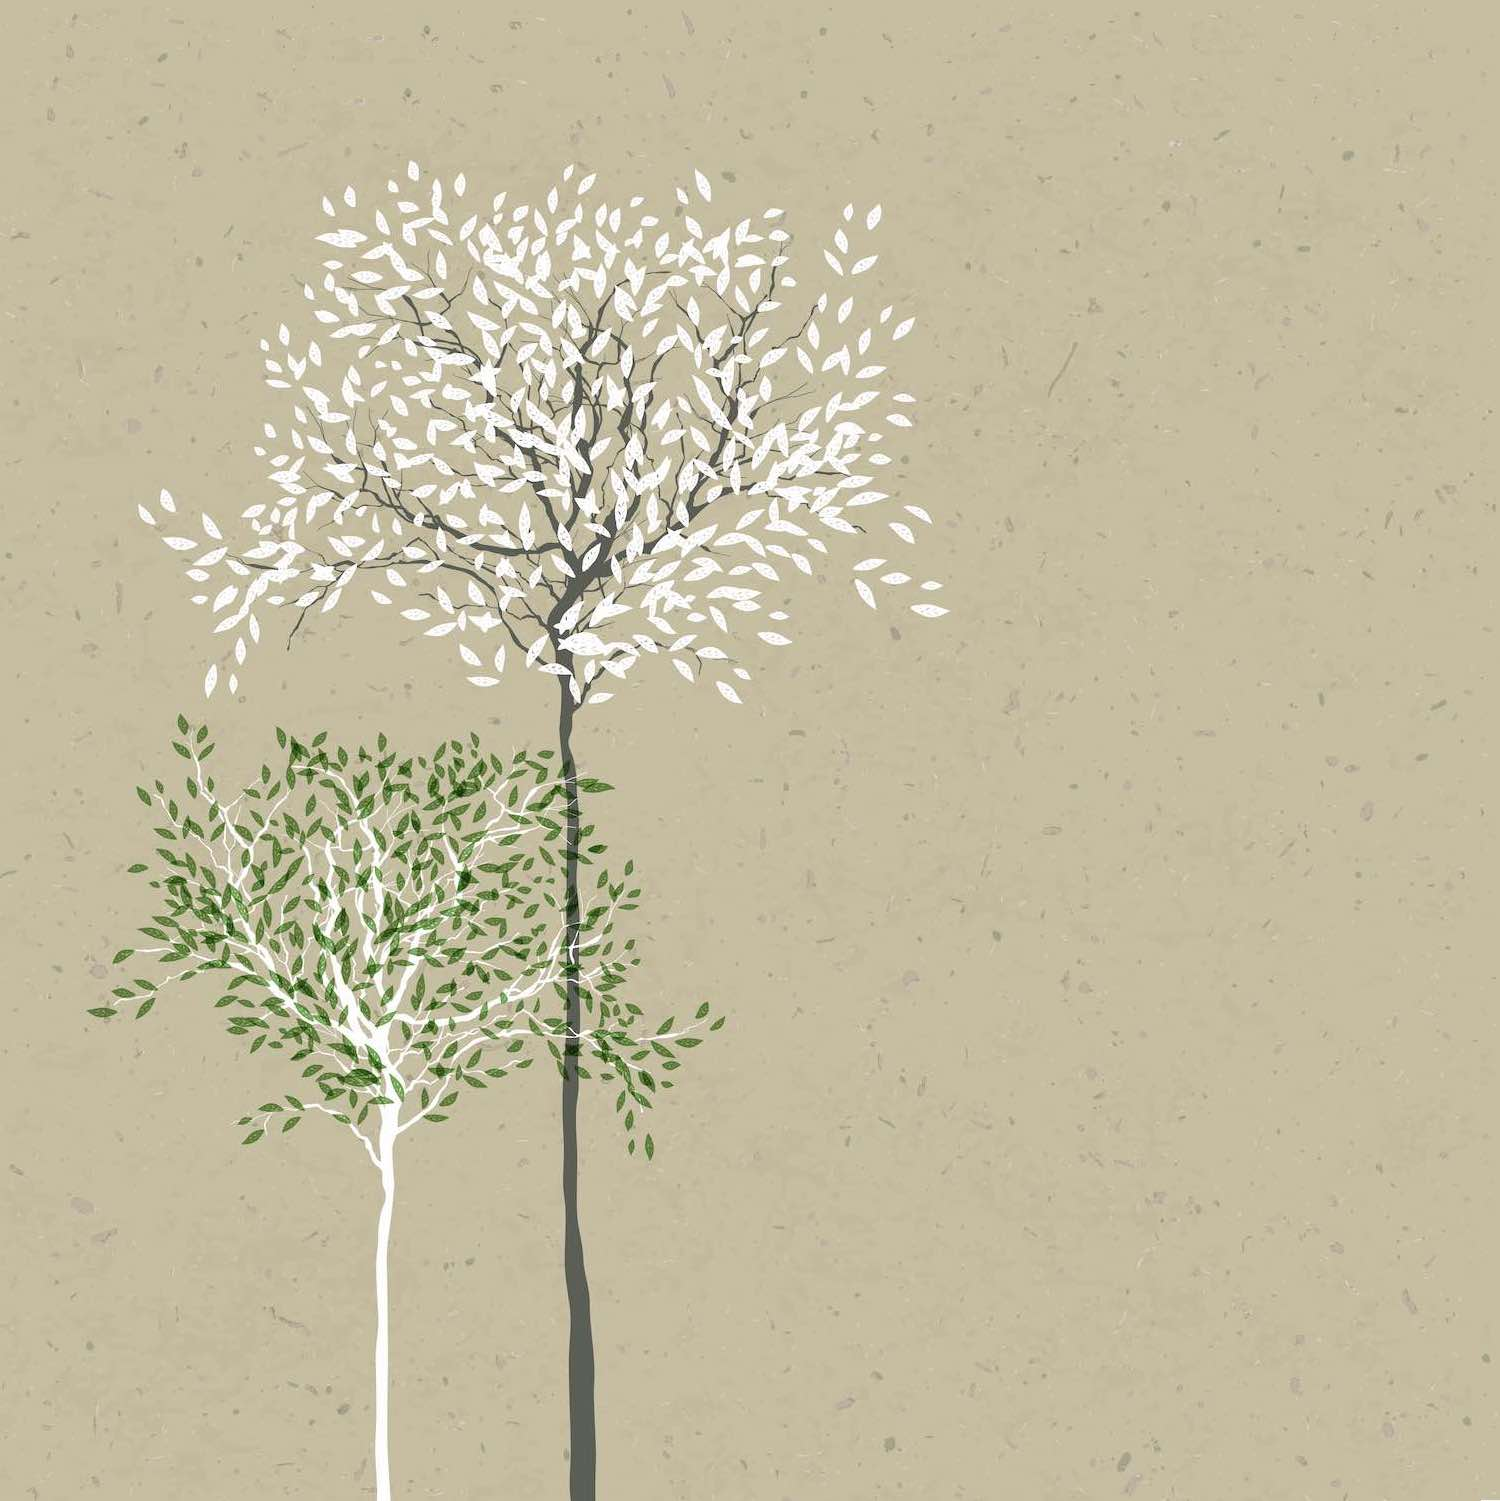
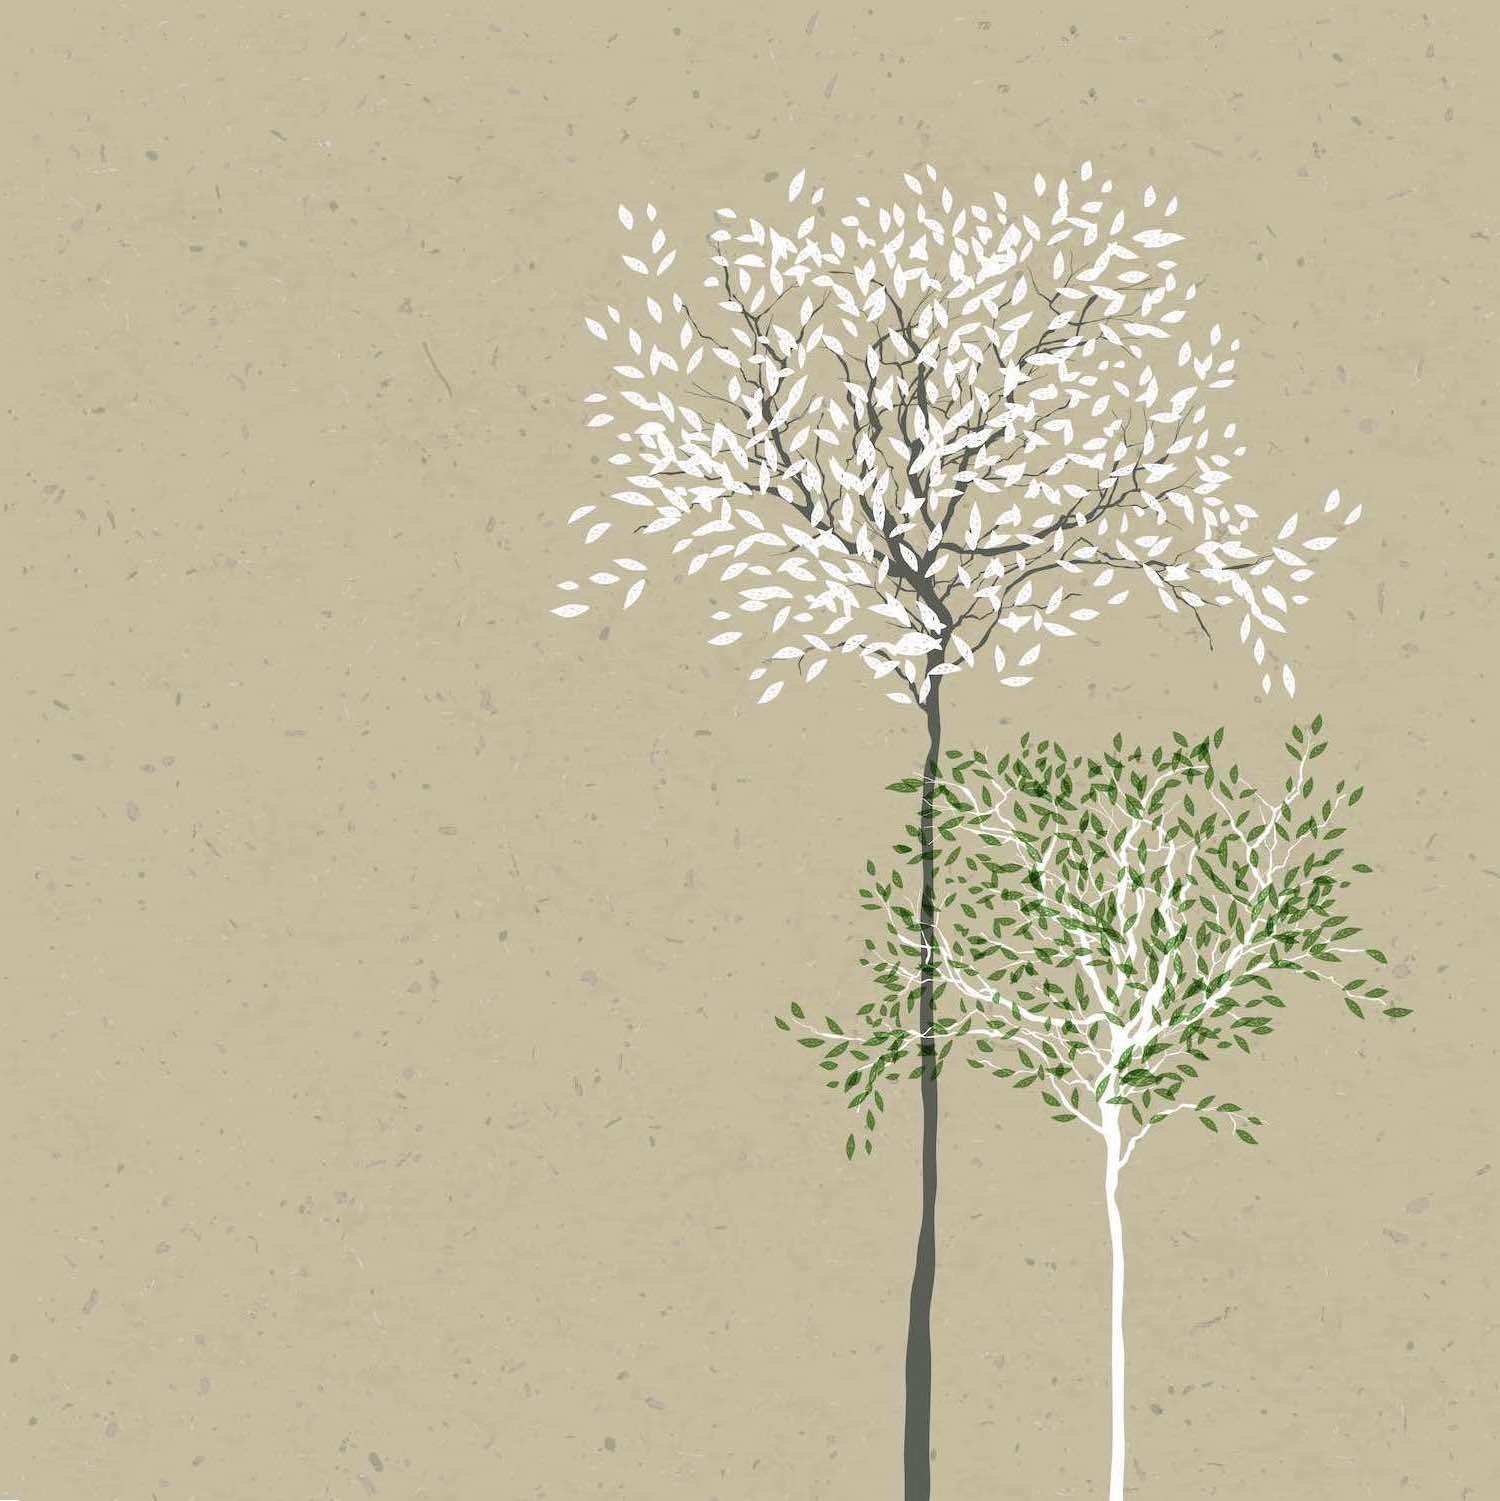
zmiany z justyna

Changed region(s): [[0.0613, 0.0919, 0.9507, 1.0]]

diff --git a/index.html b/index.html
@@ -257,8 +257,8 @@
           <div class="flex_cell av_one_half avia-builder-el-1 el_before_av_cell_one_half avia-builder-el-first trees-background">
             <div class='flex_cell_inner'></div>
           </div>
-          <div class="flex_cell no_margin av_one_half  avia-builder-el-2  el_after_av_cell_one_half avia-builder-el-last" style='background:url(files/background.jpg) center center repeat scroll; vertical-align:middle; padding: 100px; background-size: 40%; min-height: 800px;'>
-            <div class='flex_cell_inner'>
+          <div class="flex_cell no_margin av_one_half  avia-builder-el-2  el_after_av_cell_one_half avia-builder-el-last" style='background:url(files/background.jpg) center center repeat scroll; vertical-align:middle; padding: 50px; background-size: 40%; min-height: 800px;'>
+            <div class='flex_cell_inner main-text'>
               <div style='padding-bottom:0px; font-size:60px;' class='av-special-heading av-special-heading-h1  blockquote modern-quote  avia-builder-el-3  el_before_av_hr  avia-builder-el-first   av-inherit-size '>
                 <h1 class='av-special-heading-tag text-white' itemprop="headline">Sammen</h1>
                 <div class='special-heading-border'>
@@ -269,7 +269,7 @@
               </div>
               <section class="av_textblock_section " itemscope="itemscope" itemtype="https://schema.org/CreativeWork">
                 <div class='avia_textblock  av_inherit_color'>
-                  <h1 class="text-white" style="font-family: 'Open Sans'; font-size: 22px; font-weight: normal; line-height: 32px;">Witam serdecznie na mojej stronie. Nazywam się Justyna Błachno-Gwizdała i jestem psychologiem i psychoterapeutą. Mieszkam i prowadzę gabinet w Sandnes, w Norwegii. Zapraszam do zapoznania się z moją ofertą. </h1>
+                  <h1 class="text-white" align="justify" style="font-family: 'Open Sans'; font-size: 22px; font-weight: normal; line-height: 32px;">Witam serdecznie na mojej stronie. Nazywam się Justyna Błachno-Gwizdała i jestem psychologiem i psychoterapeutą. Mieszkam i prowadzę gabinet w Sandnes, w Norwegii. Zapraszam do zapoznania się z moją ofertą. </h1>
                 </div>
               </section>
               <div style='height:10px' class='hr hr-invisible   avia-builder-el-6  el_after_av_textblock  el_before_av_button '><span class='hr-inner '><span class='hr-inner-style'></span></span>
@@ -427,7 +427,7 @@
                 Zapraszam na spotkanie. W celu ustalenia terminu proszę o kontakt telefoniczny, mailowy lub o wypełnienie poniższego formularza
               </p>
 
-              <form action="https://jumprock.co/mail/sammenpsychoterapia" method="POST" class=" av-form-labels-hidden   avia-builder-el-63  el_after_av_one_half  avia-builder-el-last  av-custom-form-color av-light-form "  data-avia-redirect=''>
+              <form action="https://jumprock.co/mail/sammenpsychoterapia" method="POST" class="avia_ajax_form av-form-labels-hidden   avia-builder-el-63  el_after_av_one_half  avia-builder-el-last  av-custom-form-color av-light-form "  data-avia-redirect=''>
                 <fieldset>
                   <p class=' first_form  form_element form_fullwidth'>
                     <input name="name" class="text_input is_empty" type="text" placeholder='Imię' required>

diff --git a/themes/enfold-freelancer/wp-content/themes/enfold/css/base.css b/themes/enfold-freelancer/wp-content/themes/enfold/css/base.css
@@ -577,7 +577,7 @@ body div .avia-testimonial{display:block;float:left}
 }
 
 .background-main {
-	background:url(/files/background.jpg) center center no-repeat scroll; vertical-align:middle; padding:100px;
+	background: url(/files/background.jpg) center center no-repeat scroll; vertical-align:middle; padding: 100px;
 }
 
 .text-white {
@@ -618,23 +618,22 @@ body div .avia-testimonial{display:block;float:left}
 
 .trees-background {
 	background-image: url(/files/trees_background.jpg);
-	background-position: 25%;
+	background-position: 80%;
 	background-repeat: no-repeat;
   background-size: cover;
-}
-
-@media only screen and (max-width: 1024px) {
-	.trees-background {
-		/*background-position: -10% center;*/
-	}
 }
 
 @media only screen and (max-width: 768px) {
 	.trees-background {
 		background-size: 300px 300px !important;
+		background-position: 100% !important;
     height: 300px !important;
 		position: absolute;
 		bottom: 0;
     background-position: bottom left;
+    opacity: 0.5;
+	}
+
+	.main-text .quote {
 	}
 }
